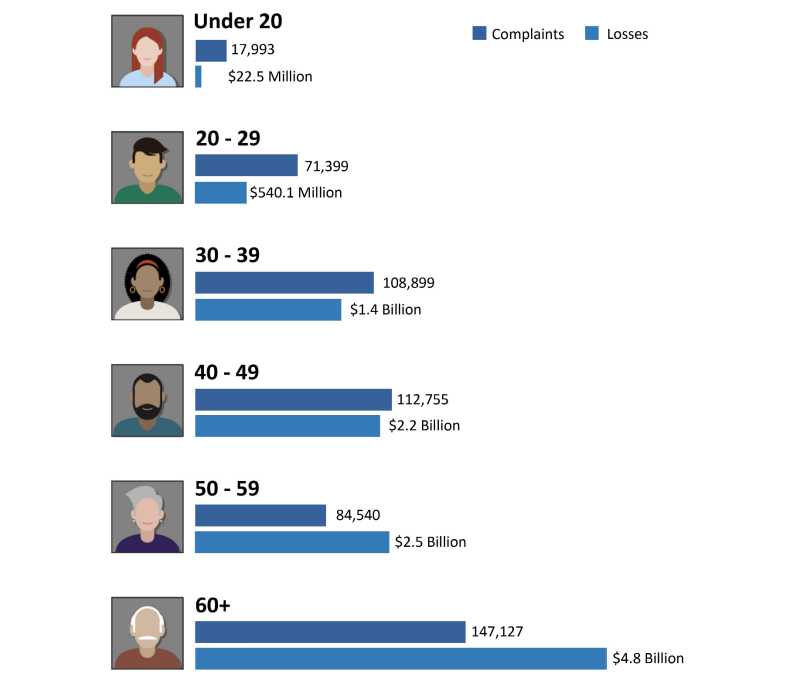
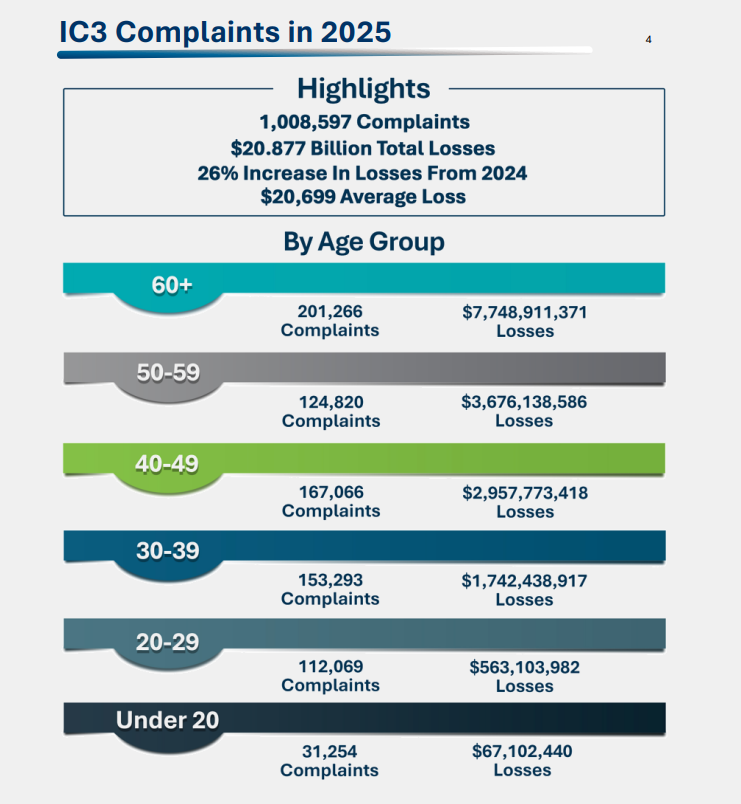
dart update fbi stats to 2025

diff --git a/app/projects/[id]/page.tsx b/app/projects/[id]/page.tsx
@@ -22,7 +22,7 @@ const projectData: Record<string, Project> = {
       src: "/dart/banner.png",
       alt: "DART Academy banner with logo, tagline, and illustrated learners",
     },
-    liveUrl: "https://app.dartacademy.net/",
+    liveUrl: "https://dartacademy.net/",
     tech: ["Next.js", "React", "PostgreSQL", "Prisma ORM", "Node.js", "TypeScript", "Tailwind CSS", "Shadcn/ui", "Figma", "Adobe Illustrator", "Zustand", "Docker", "AWS", "TipTap", "OpenAI API", "HubSpot API", "Stripe API"],
     sections: [
       {
@@ -30,11 +30,11 @@ const projectData: Record<string, Project> = {
         heading: "The Rising Threat of Online Scams",
         paragraphs: [
           {
-            text: "Online scams are a rapidly growing threat, particularly for older adults. In a single year, 147,127 Americans aged 60+ reported being victims of online scams, resulting in $4.8 billion in losses, according to the FBI's Annual Internet Crime Report.",
+            text: "Online scams are a rapidly growing threat, particularly for older adults. In a single year, 201,266 Americans aged 60+ reported being victims of online scams, resulting in $7.7 billion in losses, according to the FBI's Annual Internet Crime Report.",
             links: [
               {
                 label: "FBI's Annual Internet Crime Report",
-                href: "https://www.fbi.gov/news/press-releases/fbi-releases-annual-internet-crime-report",
+                href: "https://www.fbi.gov/news/press-releases/cryptocurrency-and-ai-scams-bilk-americans-of-billions",
               },
             ],
           },
@@ -58,7 +58,7 @@ const projectData: Record<string, Project> = {
           links: [
             {
               label: "FBI Internet Crime Report",
-              href: "https://www.fbi.gov/news/press-releases/fbi-releases-annual-internet-crime-report",
+              href: "https://www.fbi.gov/news/press-releases/cryptocurrency-and-ai-scams-bilk-americans-of-billions",
             },
           ],
         },
@@ -192,7 +192,7 @@ const projectData: Record<string, Project> = {
         alt: "Identity scam simulation preview",
         caption: {
           text: "Identity theft phishing email inbox scam simulation — Visit the live page.",
-          links: [{ label: "Visit the live page", href: "https://app.dartacademy.net/practice/identity" }],
+          links: [{ label: "Visit the live page", href: "https://dartacademy.net/practice/identity" }],
         },
       },
       {
@@ -201,7 +201,7 @@ const projectData: Record<string, Project> = {
         alt: "Tech support popup and phone call scam simulation preview",
         caption: {
           text: "Tech support popup and phone call scam simulation — Visit the live page.",
-          links: [{ label: "Visit the live page", href: "https://app.dartacademy.net/practice/tech" }],
+          links: [{ label: "Visit the live page", href: "https://dartacademy.net/practice/tech" }],
         },
       },
       {
@@ -210,7 +210,7 @@ const projectData: Record<string, Project> = {
         alt: "Medication scam drug website simulation preview",
         caption: {
           text: "Medication scam drug website simulation preview — Visit the live page.",
-          links: [{ label: "Visit the live page", href: "https://app.dartacademy.net/practice/medication" }],
+          links: [{ label: "Visit the live page", href: "https://dartacademy.net/practice/medication" }],
         },
       },
       {
@@ -219,7 +219,7 @@ const projectData: Record<string, Project> = {
         alt: "Romance scam text message inbox choose-your-path simulation preview",
         caption: {
           text: "Romance scam text message inbox choose-your-path simulation preview — Visit the live page.",
-          links: [{ label: "Visit the live page", href: "https://app.dartacademy.net/practice/romance" }],
+          links: [{ label: "Visit the live page", href: "https://dartacademy.net/practice/romance" }],
         },
       },
       {
@@ -228,7 +228,7 @@ const projectData: Record<string, Project> = {
         alt: "Grandparent scam phonecall under distress simulation preview",
         caption: {
           text: "Grandparent scam emergency phonecall simulation — Visit the live page.",
-          links: [{ label: "Visit the live page", href: "https://app.dartacademy.net/practice/grandparent" }],
+          links: [{ label: "Visit the live page", href: "https://dartacademy.net/practice/grandparent" }],
         },
       },  
       {
